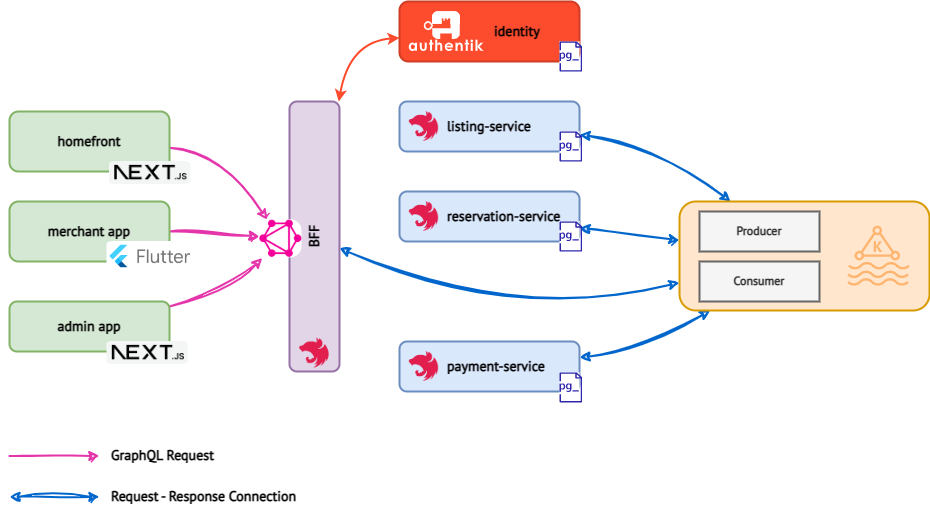
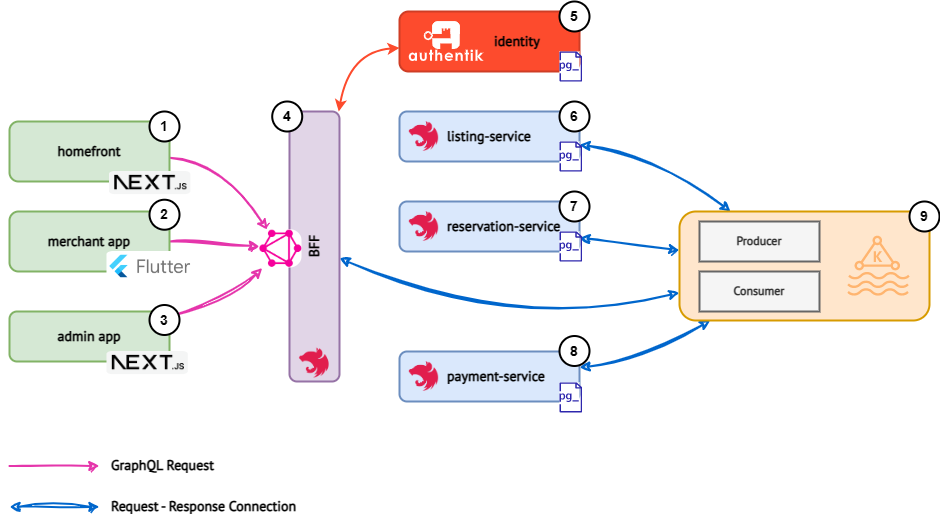
doc(): update readme

diff --git a/README.md b/README.md
@@ -2,6 +2,31 @@
 
 Best practices NodeJS in MSA
 
-## Overview
+## Technical stack
+
+* NestJS v9 / Typescript
+* NextJS v13 / Typescript
+* goauthentik
+* Kafka
+* Docker
+
+## Architecture
 
 ![System Design](docs/imgs/system-design.png)
+
+| NO | Service             | Language    | Description                                                                                                  |
+| -- | ------------------- | ----------- | ------------------------------------------------------------------------------------------------------------ |
+| 1  | homefront           | Typescript  | Homepage for listing all available rooms, show room detail, price and provide reservation function to guest. |
+| 2  | merchant app        | Dart        | Provide a mobile app for merchant to manage their rooms, view booking detail, ...                            |
+| 3  | admin app           | Typescript  | A web application for admin to manage users, rooms and bookings                                              |
+| 4  | BFF                 | Typescript  | Prepare a GraphQL gateway for homefront, merchant app to communicate with internal services                  |
+| 5  | identity            | Go          | Provide OIDC authentication                                                                                  |
+| 6  | listing-service     | Typescript  | Lists rooms, views room detail, price...                                                                     |
+| 7  | reservation-service | Typescript  | Manage room reservation                                                                                      |
+| 8  | payment-service     | Typescript  | Processes payment                                                                                            |
+| 9  | message-broker      | C/C++       | A Kafka instance                                                                                             |
+
+## Development
+
+See the [Development guide](docs/development-guide.md) to learn how to run and develop this app locally.
+
